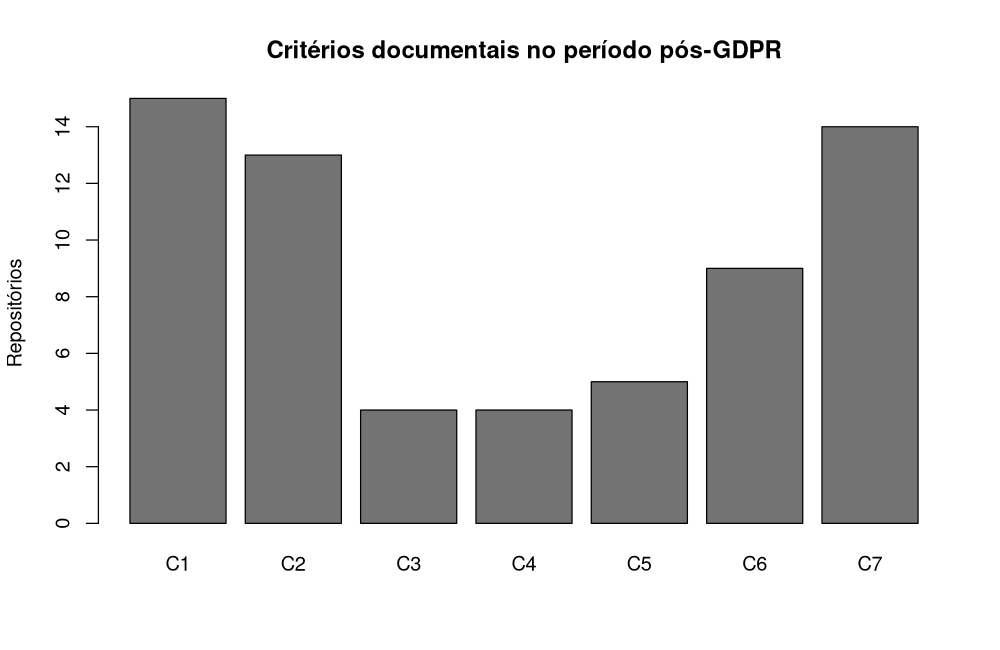
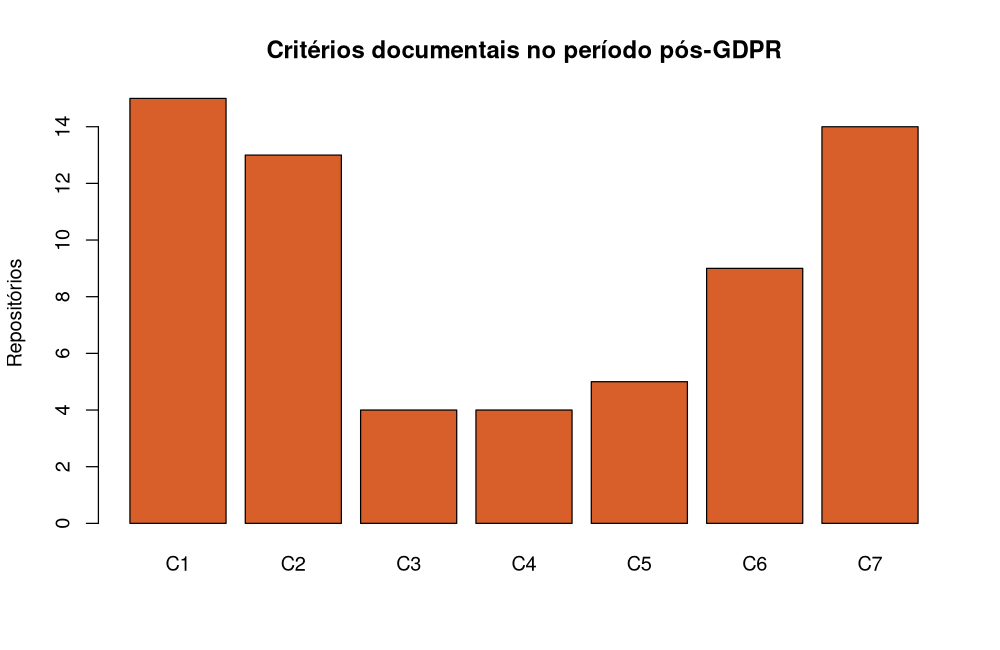
fix: Ajustes no site

Changed region(s): [[0.124, 0.1538, 0.93, 0.8308]]

diff --git a/site/styles.css b/site/styles.css
@@ -8,13 +8,18 @@
   --muted: #66727a;
   --navy: #111111;
   --rust: #111111;
-  --accent-soft: #d5e1e7;
+  --accent: #bd4618;
+  --accent-soft: #df9a75;
+  --accent-box: #fff1e8;
+  --accent-box-text: #4c2415;
+  --accent-stroke: #d16b40;
+  --accent-flow: #b94b1e;
   --line: #e1e6e9;
   --code-bg: #faf9f6;
   --table-head: #111111;
   --table-head-text: #ffffff;
-  --brand-line: #d4e2e9;
-  --language-active: #ff4b1f;
+  --brand-line: #ead6ca;
+  --language-active: var(--accent);
   --language-active-text: #ffffff;
   --brand-tagline: "Engenharia de software · pesquisa";
   --max: 1300px;
@@ -23,6 +28,8 @@
   --bs-body-font-family: var(--sans);
   --bs-body-color: var(--ink);
   --bs-body-bg: var(--white);
+  --bs-primary: var(--accent);
+  --bs-primary-rgb: 189, 70, 24;
   --bs-link-color: var(--rust);
   --bs-link-hover-color: var(--navy);
 }
@@ -35,15 +42,22 @@
   --muted: #aeb7ba;
   --navy: #f2f1ec;
   --rust: #f2f1ec;
-  --accent-soft: #5a7079;
+  --accent: #ff7548;
+  --accent-soft: #db885f;
+  --accent-box: #31221b;
+  --accent-box-text: #ffede4;
+  --accent-stroke: #d47b54;
+  --accent-flow: #cf714c;
   --line: #2d383d;
   --code-bg: #141b1f;
   --table-head: #171c1f;
   --table-head-text: #f2f1ec;
-  --brand-line: #42525a;
+  --brand-line: #594238;
   --brand-tagline: "Software engineering · research";
   --bs-body-color: var(--ink);
   --bs-body-bg: var(--white);
+  --bs-primary: var(--accent);
+  --bs-primary-rgb: 255, 117, 72;
   --bs-link-color: var(--rust);
   --bs-link-hover-color: var(--navy);
 }
@@ -57,15 +71,22 @@
     --muted: #aeb7ba;
     --navy: #f2f1ec;
     --rust: #f2f1ec;
-    --accent-soft: #5a7079;
+    --accent: #ff7548;
+    --accent-soft: #db885f;
+    --accent-box: #31221b;
+    --accent-box-text: #ffede4;
+    --accent-stroke: #d47b54;
+    --accent-flow: #cf714c;
     --line: #2d383d;
     --code-bg: #141b1f;
     --table-head: #171c1f;
     --table-head-text: #f2f1ec;
-    --brand-line: #42525a;
+    --brand-line: #594238;
     --brand-tagline: "Software engineering · research";
     --bs-body-color: var(--ink);
     --bs-body-bg: var(--white);
+    --bs-primary: var(--accent);
+    --bs-primary-rgb: 255, 117, 72;
     --bs-link-color: var(--rust);
     --bs-link-hover-color: var(--navy);
   }
@@ -648,6 +669,30 @@ pre.sourceCode code *,
 #TOC a.active {
   color: var(--language-active) !important;
   font-weight: 600;
+  border-left-color: var(--language-active) !important;
+}
+
+.mermaid .node rect,
+.mermaid .node polygon,
+.mermaid .node circle {
+  fill: var(--accent-box) !important;
+  stroke: var(--accent-stroke) !important;
+}
+
+.mermaid .node .label,
+.mermaid .nodeLabel {
+  color: var(--accent-box-text) !important;
+  fill: var(--accent-box-text) !important;
+}
+
+.mermaid .flowchart-link,
+.mermaid .edgePath path,
+.mermaid marker path {
+  stroke: var(--accent-flow) !important;
+}
+
+.mermaid marker path {
+  fill: var(--accent-flow) !important;
 }
 
 .btn,
